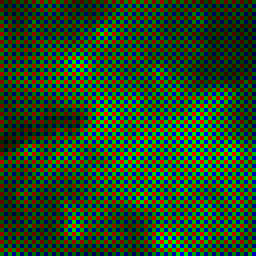
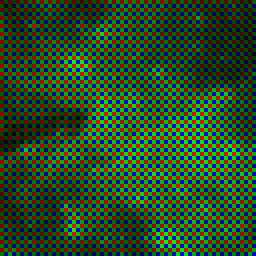
better kernels and updated examples

diff --git a/Test/Test.py b/Test/Test.py
@@ -6,20 +6,23 @@ from Analysis.Utilities.TorchUtil import np_to_torch
 from ColorTransform import random_color_transform, random_cam_white_balance, apply_color_matrix, apply_white_balance
 import Noise
 from CFA import BayerPattern, demosaic, DemosaicMethod, create_bayer_matrix
-from Convolve import gaussian_kernel, apply_kernel, circular_kernel
+from Convolve import gaussian_kernel, apply_kernel, circular_kernel, apply_color_kernel
 from JpgDegrade import jpg_degrade
 
 if __name__ == "__main__":
     bit_depth = 14
     pedestal = 0
     images = 1
-    gain = 32
+    gain = 16
     read_noise = (Noise.GaussianParams(2047.98 - 2048, 11.536 / np.sqrt(images), 0.9997),
                   Noise.GaussianParams(2055.5 - 2048, 43.837 / np.sqrt(images), 0.0003))
     row_noise = Noise.GaussianParams(0, 0.163)
     col_noise = Noise.GaussianParams(0, 0.38)
 
-    aberration_kernels = [gaussian_kernel(3, 0.5), circular_kernel(9, 3)]
+    kernel = np_to_torch(FileIO.read_image("Kernels/36.tif")).unsqueeze(0) ** 2.2
+    kernel /= kernel.sum(dim=(2, 3), keepdims=True)
+    aberration_kernels = [kernel]
+    # aberration_kernels = [gaussian_kernel(3, 0.5), circular_kernel(9, 3)]
     color_transform = random_color_transform()
     rgb2cam = torch.tensor(color_transform[0])
     cam2rgb = torch.tensor(color_transform[1])
@@ -36,8 +39,7 @@ if __name__ == "__main__":
     # degradation
     blurry = clean
     for aberration_kernel in aberration_kernels:
-        blurry = apply_kernel(blurry, aberration_kernel)
-
+        blurry = apply_color_kernel(blurry.unsqueeze(0), aberration_kernel).squeeze(0)
     noisy = torch.poisson(blurry) * gain
     noise_tensor = Noise.gaussian_sample_combination_like(noisy, read_noise)
     row_noise_tensor = Noise.row_noise_like(noisy, row_noise)
@@ -64,7 +66,7 @@ if __name__ == "__main__":
     noisy_ahd = (noisy_ahd / (2 ** bit_depth)).clip_(0, 1)
     noisy_vng = (noisy_vng / (2 ** bit_depth)).clip_(0, 1)
     noisy_leg = (noisy_leg / (2 ** bit_depth)).clip_(0, 1)
-    noisy_ahd_jpg = jpg_degrade(noisy_ahd, 30)
+    noisy_ahd_jpg = jpg_degrade(noisy_ahd, 50)
     FileIO.write_image_tensor('Test/blur.png', upsample((blurry ** 0.4545).unsqueeze(0)).squeeze(0), np.uint16)
     FileIO.write_image_tensor('Test/noise_blur.png', upsample((noisy ** 0.4545).unsqueeze(0)).squeeze(0), np.uint16)
     FileIO.write_image_tensor('Test/noisy_blur_bayer.png', upsample((noisy_bayer ** 0.4545).unsqueeze(0)).squeeze(0), np.uint16)

diff --git a/Prep/ZernikePSF.py b/Prep/ZernikePSF.py
@@ -31,7 +31,7 @@ def gen_zernike_kernel(focal_length, aperture: Aperture, total_weight: Optional[
     :return: a monochrome image of the psf
     """
     if weights is None:
-        weight_std = np.array([0, 0.1, 0.1, 0.5, 0.3, 0.3, 0.7, 0.7, 0.1, 0.1, 0.5, 0.2, 0.2, 0.05, 0.05])
+        weight_std = np.array([0, 0.2, 0.0, 0.5, 0.03, 0.3, 0.1, 0.7, 0.02, 0.1, 0.1, 0.01, 0.1, 0.005, 0.02])
         weights = weight_std * np.random.randn(*weight_std.shape)
         weights /= np.sum(np.abs(weights))
     if wavelengths is None:
@@ -63,6 +63,28 @@ if __name__ == "__main__":
     a = Aperture(50 / 2.8)
     # generate randomly sampled kernels in the specified folder
     for i in range(1000):
-        k = gen_zernike_kernel(100, a, random.uniform(1, 2))
+        weight_std = np.array([0, 0.2, 0.0, 0.5, 0.03, 0.3, 0.1, 0.7, 0.02, 0.1, 0.1, 0.01, 0.1, 0.005, 0.02])
+        weights = weight_std * np.random.randn(*weight_std.shape)
+        weights[1] = abs(weights[1])
+        weights[7] = -abs(weights[7])
+        weights /= np.sum(np.abs(weights))
+
+        total_weight = np.sqrt(random.uniform(0, 3))
+        rgb_weight_factor = random.uniform(0.6, 1. / 0.6)
+
+        k = np.zeros((128, 128, 3))
+
+        for j in range(20):
+            wv = 0.4 + 0.3 * j / 20.
+            w = total_weight * pow(rgb_weight_factor, (j - 9.5) / 10)
+            kk = gen_zernike_kernel(100, a, w, weights=weights, wavelengths=np.array((wv,)))
+            if wv < 0.55:
+                k[:, :, 2] = kk
+            if 0.45 < wv < 0.65:
+                k[:, :, 1] = kk
+            if wv > 0.55:
+                k[:, :, 0] = kk
+
+        k /= np.sum(k, axis=(0, 1), keepdims=True)
         k /= np.max(k)
-        FileIO.write_image(f"Kernels/{i}.tif", k ** 0.45, np.uint16)
+        FileIO.write_image(f"ZernikeKernels/{i}.tif", k ** 0.45, np.uint16)

diff --git a/Prep/PrepKernels.py b/Prep/PrepKernels.py
@@ -1,0 +1,39 @@
+import os
+import random
+
+import torch.nn
+import torchvision.transforms.functional
+
+from Analysis.Utilities import FileIO
+from Analysis.Utilities.TorchUtil import np_to_torch
+import Convolve
+
+
+def center_kernel(kernel):
+    patch_size = kernel.shape[1]
+    ks = kernel.mean(dim=0)
+    x, y = torch.meshgrid(torch.arange(patch_size), torch.arange(patch_size))
+    xm = -int(round((float((ks * x).sum()) - patch_size / 2 - 0.5)))
+    ym = -int(round((float((ks * y).sum()) - patch_size / 2 - 0.5)))
+    kt = torch.zeros_like(kernel)
+    kt[:, max(0, 0 + xm):min(patch_size, patch_size + xm), max(0, 0 + ym):min(patch_size, patch_size + ym)] = \
+        kernel[:, max(0, 0 - xm):min(patch_size, patch_size - xm), max(0, 0 - ym):min(patch_size, patch_size - ym)]
+    return kt
+
+
+def prep_kernels(in_path: str, out_path: str):
+    for kernel_path in os.listdir(in_path):
+        kernel = np_to_torch(FileIO.read_image(os.path.join(in_path, kernel_path))) ** 2.2
+        kernel = torchvision.transforms.functional.rotate(kernel, random.uniform(0, 360), torchvision.transforms.InterpolationMode.BILINEAR)
+        kernel = Convolve.apply_kernel(kernel, Convolve.gaussian_kernel(15, 1.5))
+        kernel = (kernel - 2 * kernel.quantile(0.5)).clip_(0)
+        kernel = torch.nn.UpsamplingBilinear2d((15 * 9, 15 * 9))(kernel.unsqueeze(0)).squeeze(0)
+        kernel /= kernel.sum(dim=(1, 2), keepdim=True)
+        kernel = center_kernel(kernel)
+        kernel = torch.nn.AvgPool2d(9)(kernel.unsqueeze(0)).squeeze(0)
+        kernel /= kernel.max()
+        FileIO.write_image_tensor(os.path.join(out_path, kernel_path), kernel ** 0.45)
+
+
+if __name__ == "__main__":
+    prep_kernels("ZernikeKernels", "Kernels")
